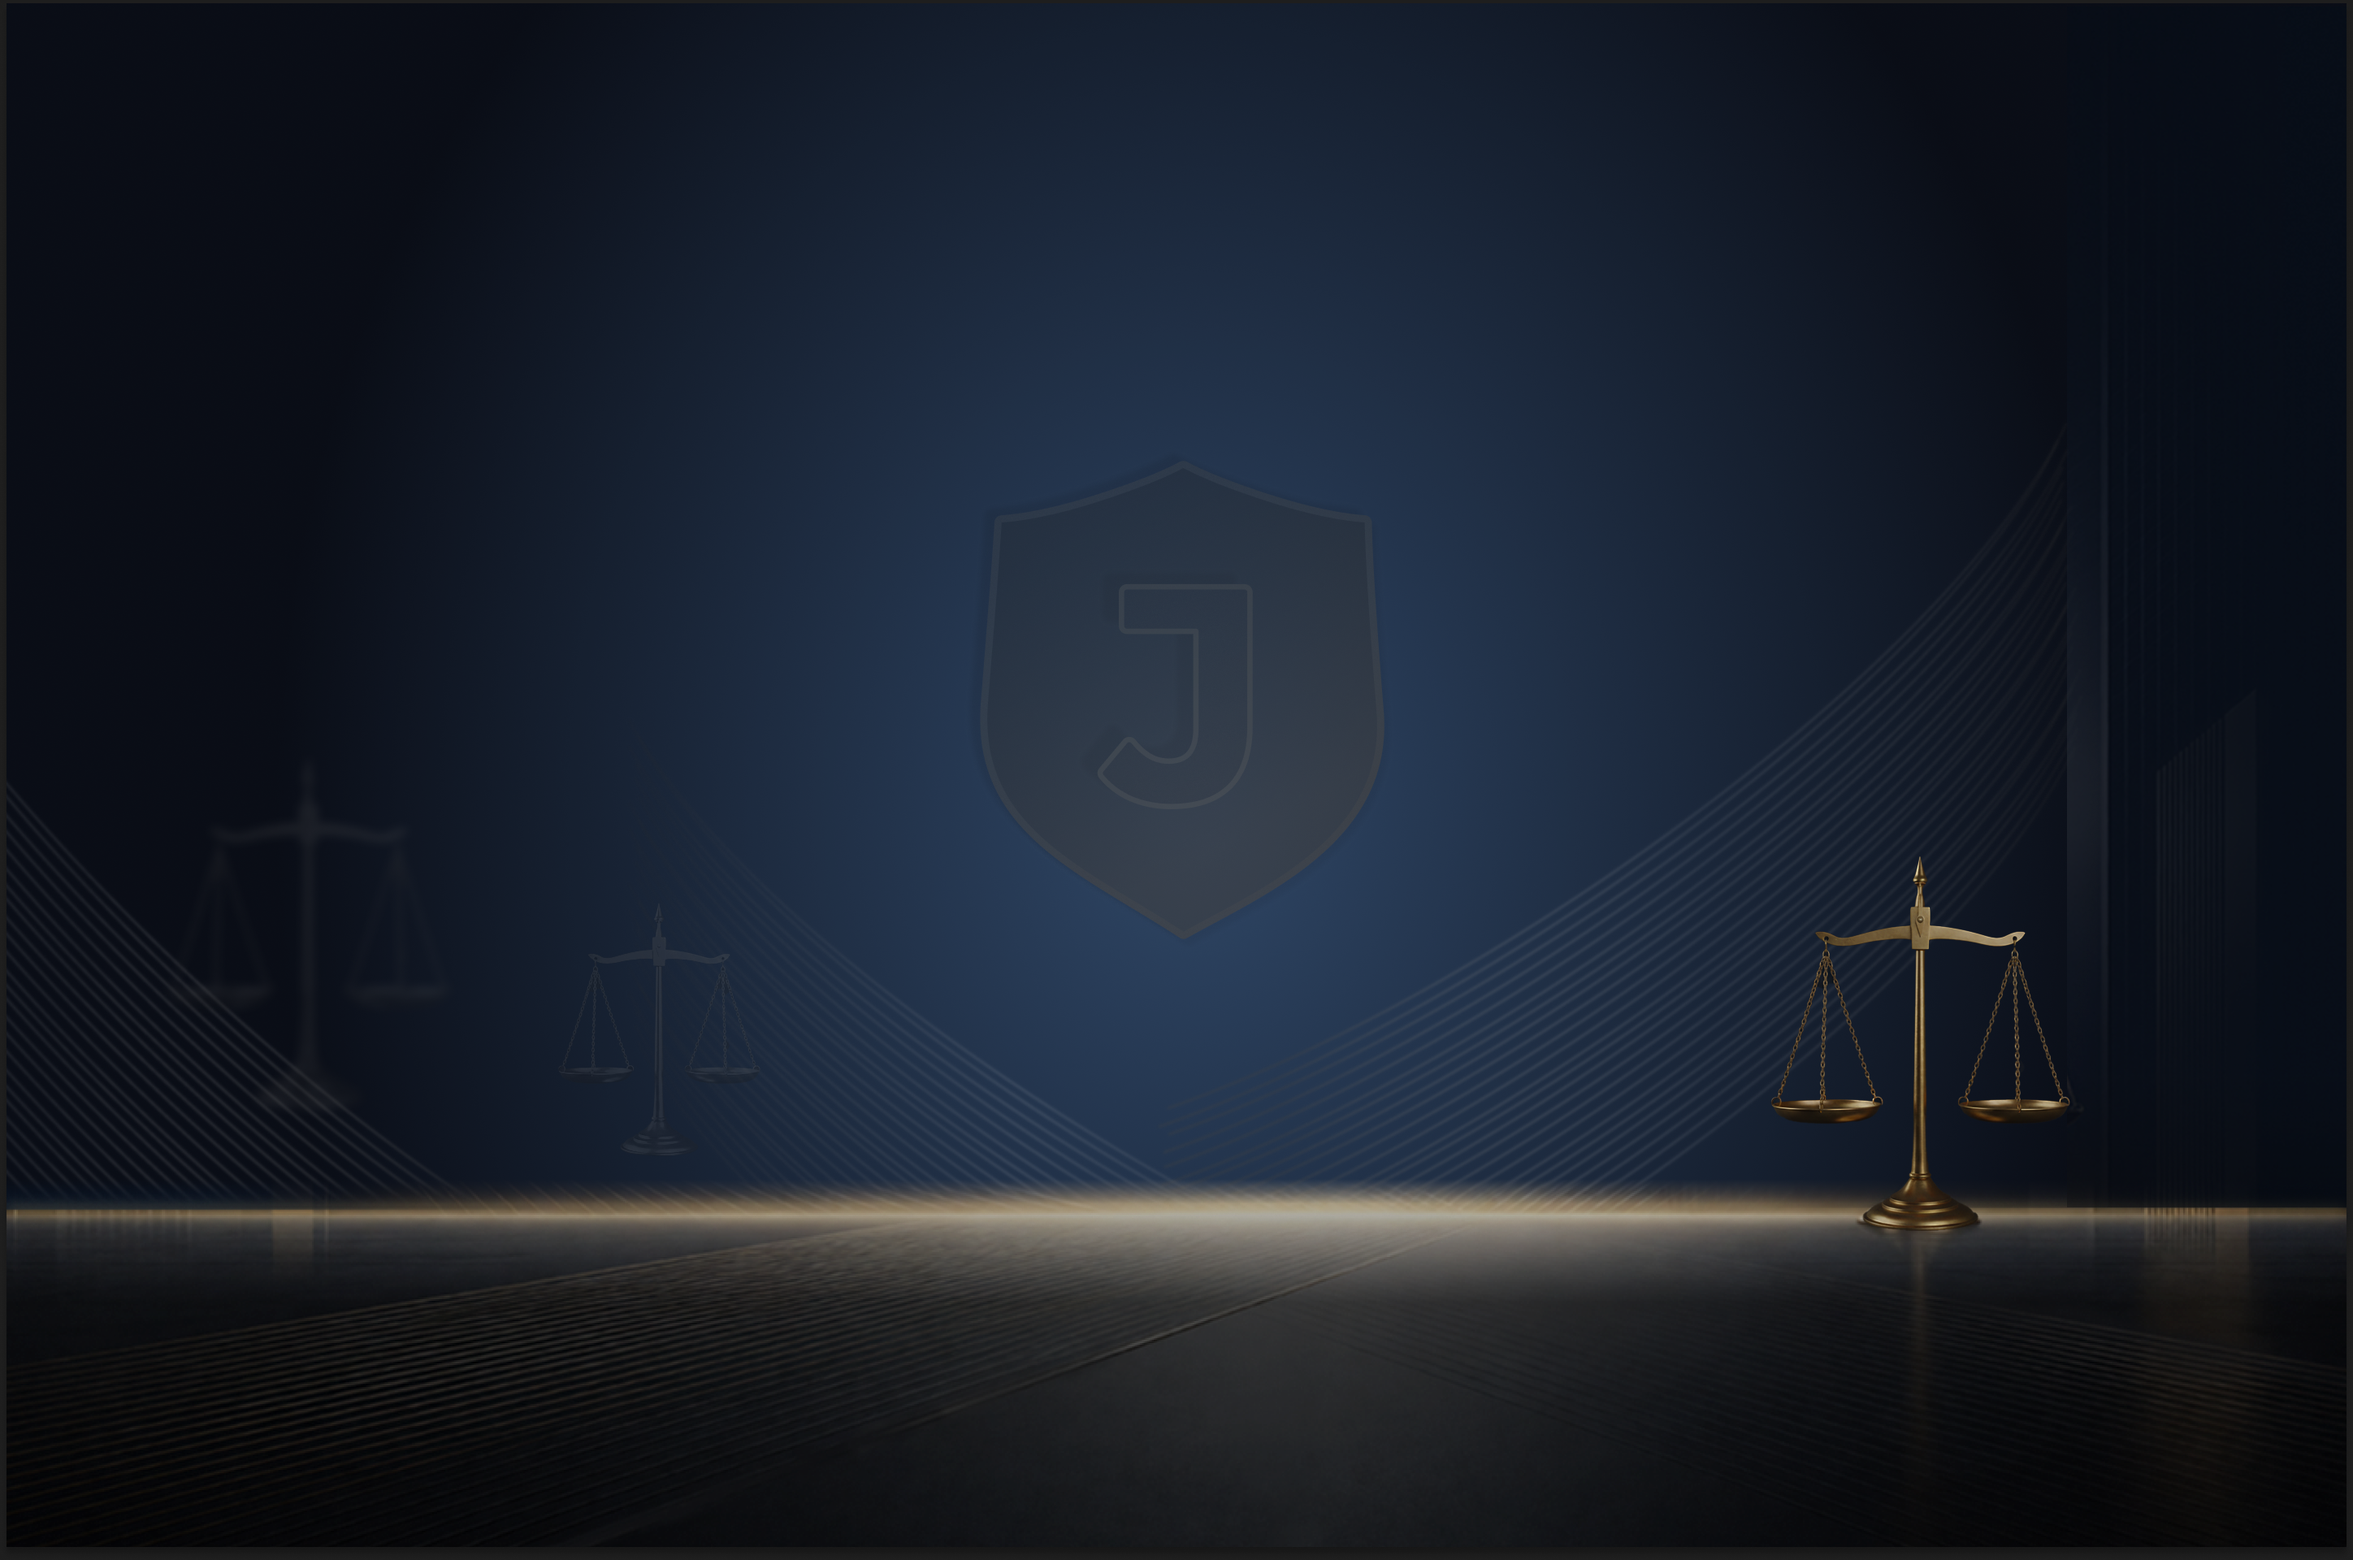
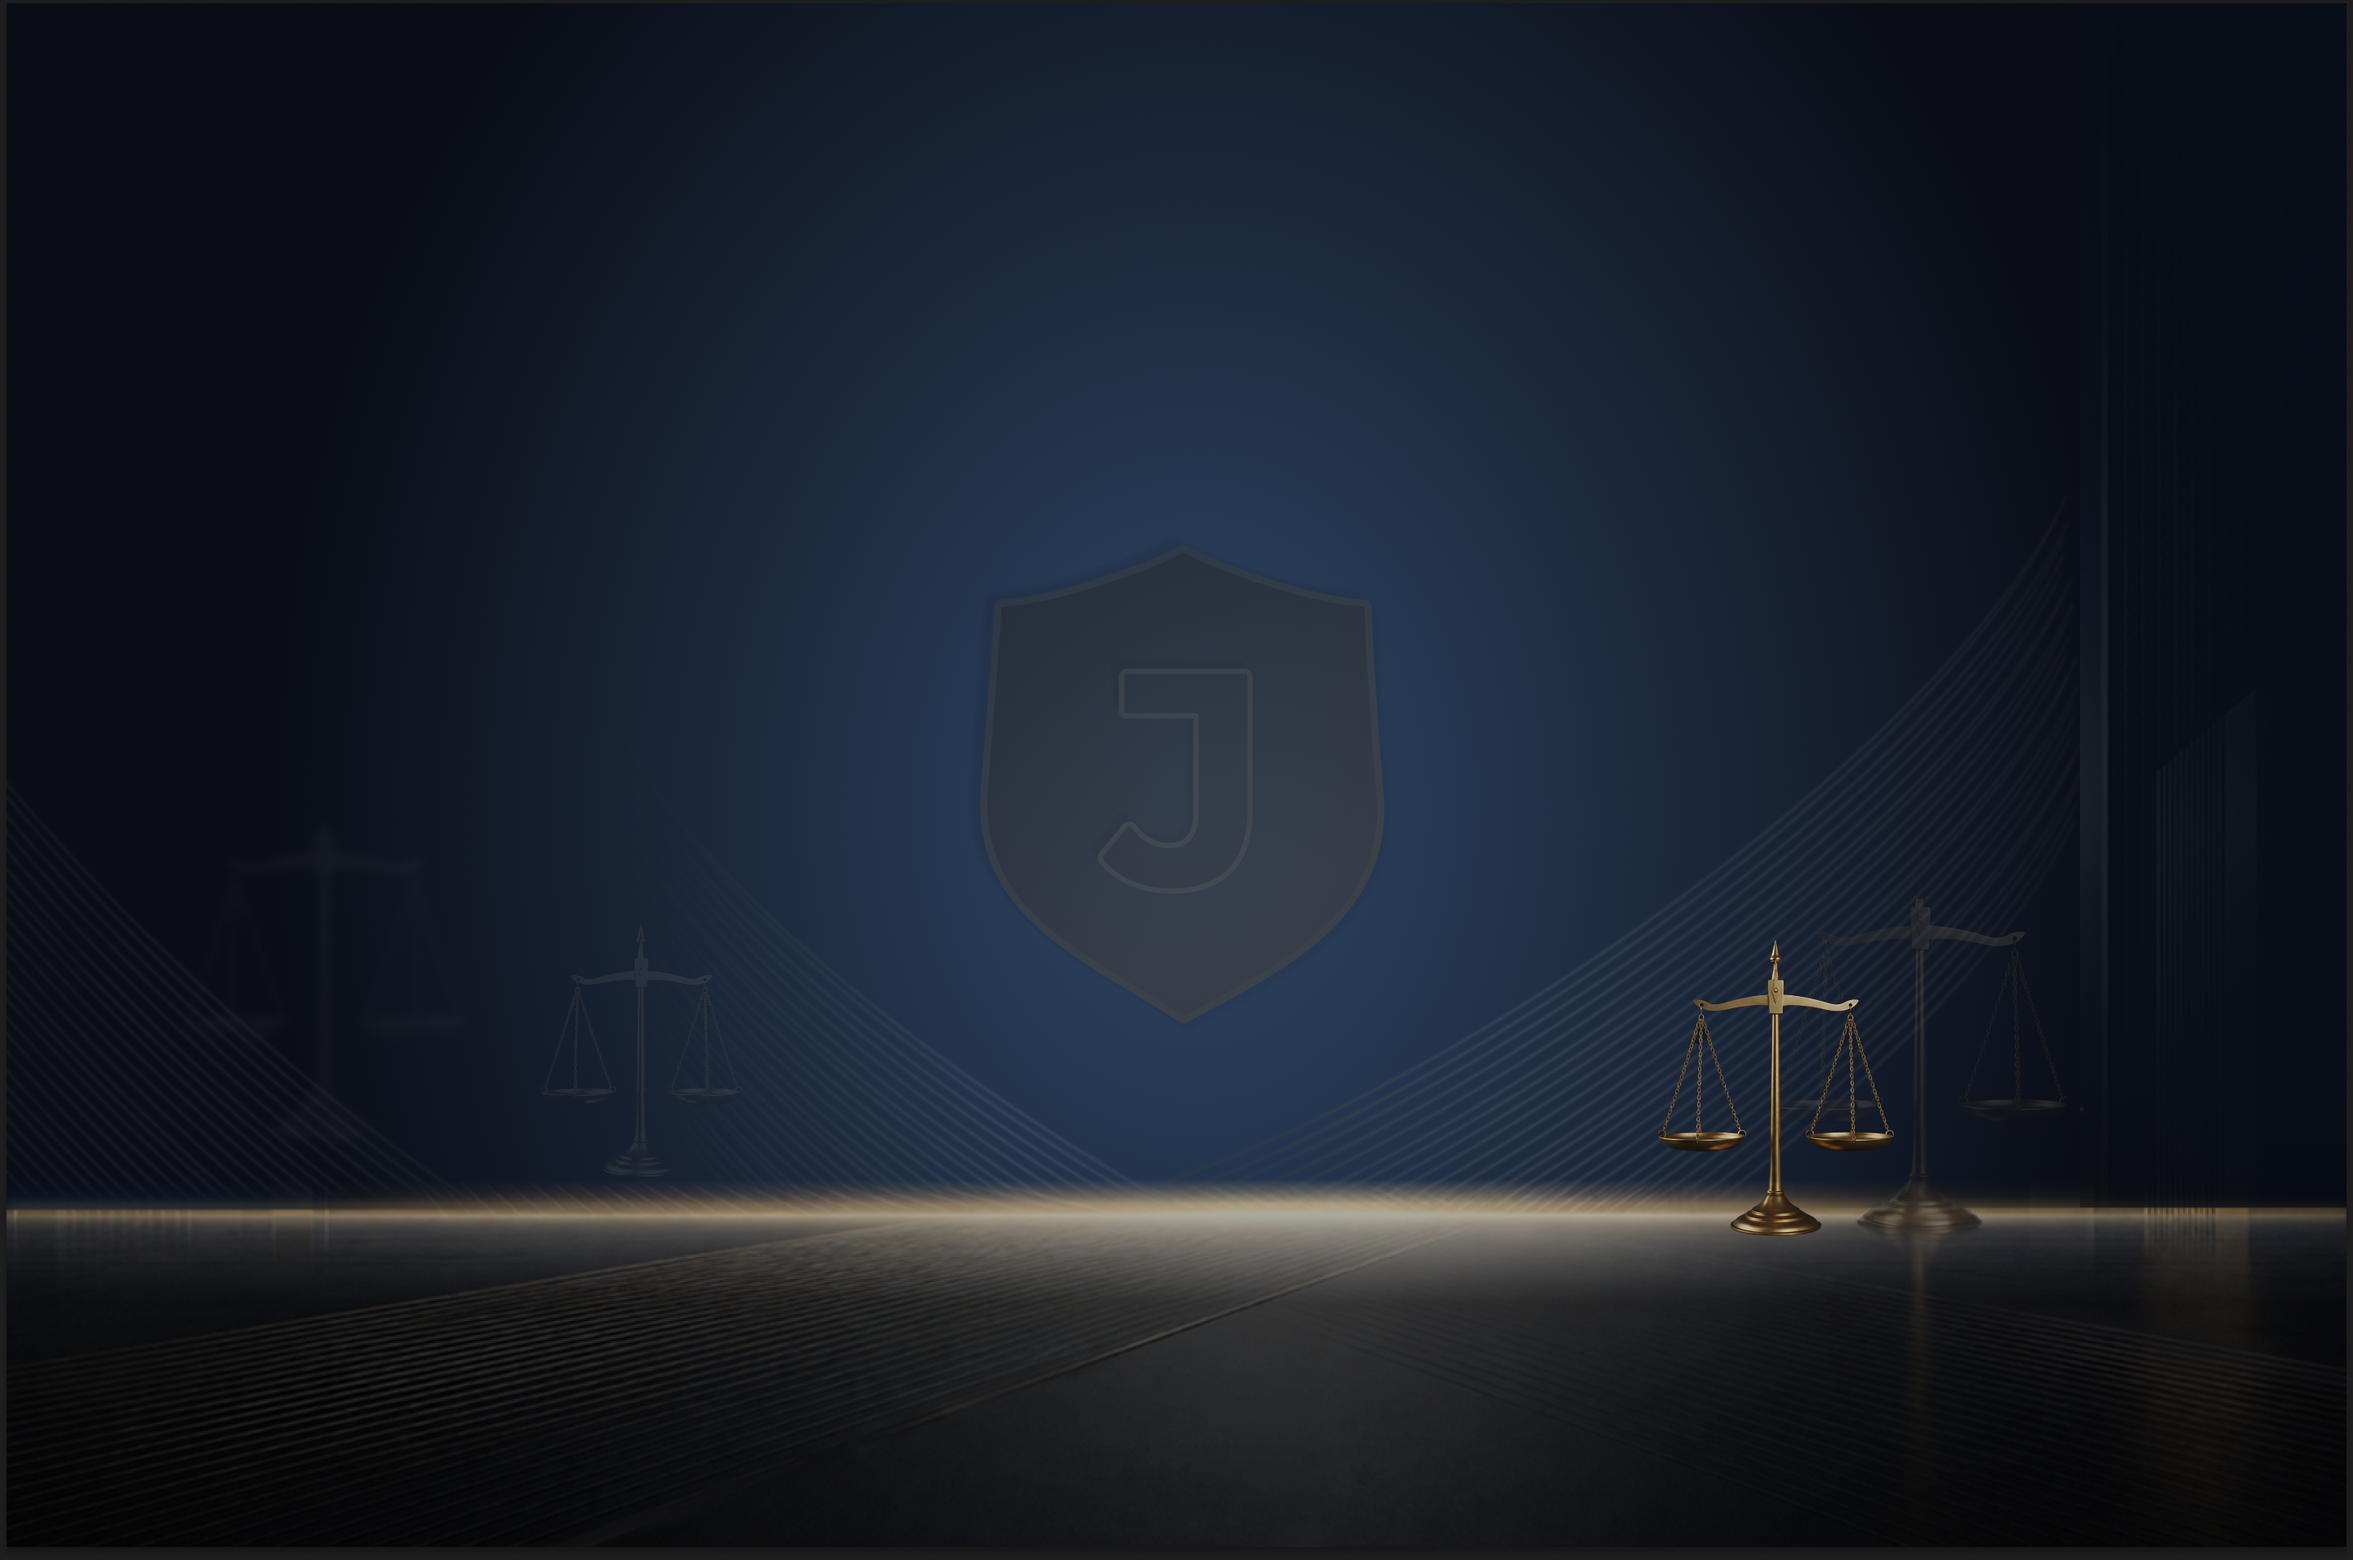
Updated background

Changed region(s): [[0.7148, 0.5625, 0.8702, 0.8125]]

diff --git a/css/styles.css b/css/styles.css
@@ -317,8 +317,7 @@ h6 {
     height: 100%;
     background-image: url('../images/background-hero.png');
     background-size: cover;
-    background-position: center 80%;
-    /* Moved scales higher, under the button */
+    background-position: center bottom;
     background-repeat: no-repeat;
     background-attachment: scroll;
     /* Moves with the section */
